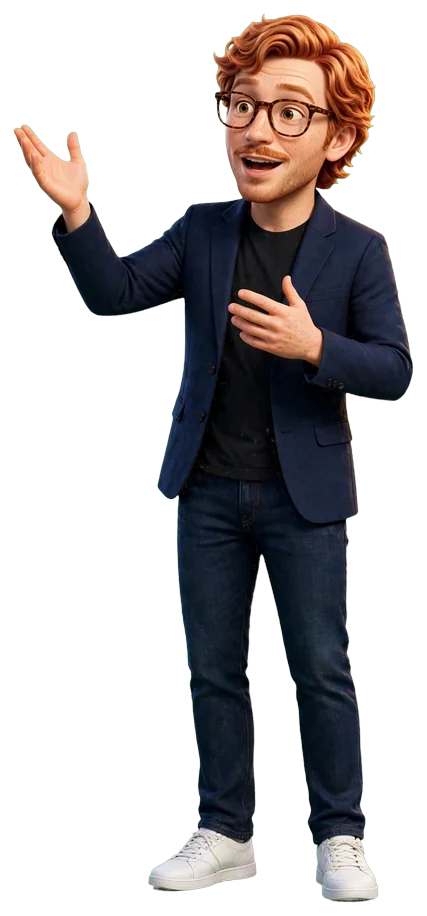
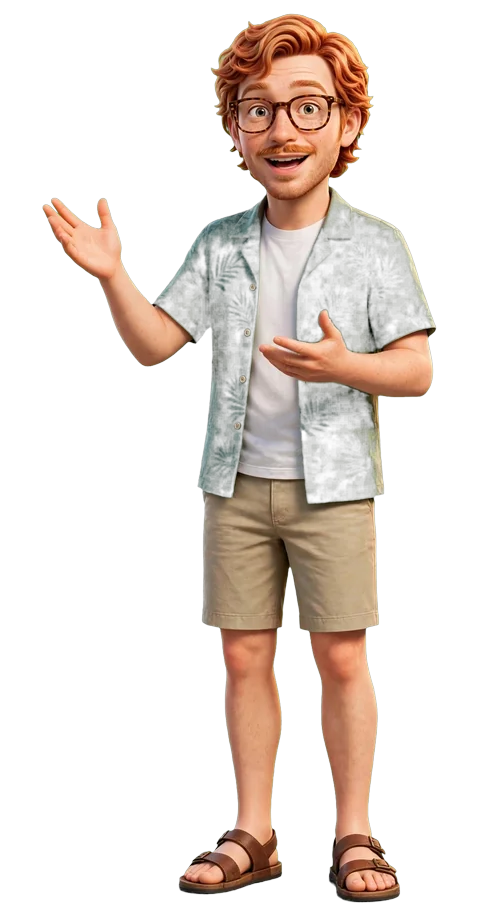
Leo is the button, dressed for San Diego, standing over the bay
- Leo re-dressed as a San Diegan across all poses: sage palm camp
  shirt open over a white tee, khaki shorts, leather sandals — same
  scholar face, glasses and stache. Seven poses now: idle, speaking,
  listening, thinking, wave, plus two new ones (pointing, thumbs-up),
  all cutouts on the shared 480x916 canvas (57-74 KB each)
- The mic orb is retired: Leo himself is the tap target, running the
  same press handler. A mic badge on his hip (amber idle / blue
  speaking / rose listening) teaches the tap; his state glow now sits
  behind him; hint reads 'Tap Leo to ask him a question'
- Pose breakouts: he points for 5s when a major landmark's story
  jumps the queue, and flashes a thumbs-up when a story is liked
- Setting: San Diego — a Coronado Bridge / downtown / palms
  silhouette (inline SVG, no image weight) grounds both screens,
  and the sky gradient follows the clock (dawn/day/dusk/night)

diff --git a/src/App.tsx b/src/App.tsx
@@ -18,7 +18,18 @@ import { ambientAudio } from './services/ambientAudio';
 import { storyLikes } from './services/storyLikes';
 import { geminiAudio } from './services/geminiAudio';
 import { SUPABASE_CONFIGURED } from './services/supabase';
-import LeoFigure from './components/LeoFigure';
+import LeoFigure, { LeoPose } from './components/LeoFigure';
+import SdSkyline from './components/SdSkyline';
+
+// The sky over San Diego, by the clock. Still just a gradient — no image,
+// no weight — but the app sits in the same light the driver is in.
+function daySkyGradient(): string {
+  const h = new Date().getHours();
+  if (h >= 5 && h < 8) return 'linear-gradient(to bottom, #0b1226 0%, #27355c 55%, #6b3a1e 135%)';
+  if (h >= 8 && h < 17) return 'linear-gradient(to bottom, #0a1f33 0%, #155e75 60%, #0f766e 140%)';
+  if (h >= 17 && h < 20) return 'linear-gradient(to bottom, #150f2e 0%, #46224d 55%, #8a3b16 135%)';
+  return 'linear-gradient(to bottom, #020617 0%, #1e293b 55%, #020617 100%)';
+}
 
 const RESUME_SESSION_KEY = 'leo_active_session';
 const RESUME_SESSION_TTL_MS = 30 * 60 * 1000;
@@ -98,6 +109,18 @@ function App() {
       : voice.wasInterrupted
         ? { label: 'TAP TO RESUME', pose: 'idle' as const, orb: 'from-cyan-900/60 to-slate-900 border-cyan-600/50', glow: 'bg-cyan-500/25', ring: 'border-cyan-400/30', icon: 'text-cyan-300', text: 'text-cyan-300' }
         : { label: 'ON TOUR', pose: 'idle' as const, orb: 'from-slate-800 to-slate-900 border-slate-600/50', glow: 'bg-cyan-500/10', ring: 'border-slate-500/25', icon: 'text-slate-400', text: 'text-slate-500' };
+
+  // Brief pose breakouts that outrank the state pose: Leo points when a
+  // major landmark's story jumps the queue, and throws a thumbs-up when a
+  // story is liked. Pure theatre — timed, then the state pose resumes.
+  const [poseFlash, setPoseFlash] = useState<LeoPose | null>(null);
+  const skyGradient = daySkyGradient();
+  const poseFlashTimerRef = useRef<number | null>(null);
+  const flashPose = useCallback((pose: LeoPose, ms: number) => {
+    setPoseFlash(pose);
+    if (poseFlashTimerRef.current) window.clearTimeout(poseFlashTimerRef.current);
+    poseFlashTimerRef.current = window.setTimeout(() => setPoseFlash(null), ms);
+  }, []);
 
   const requestTokenRef = useRef<number>(0);
   const kickoffFiredRef = useRef(false);
@@ -483,6 +506,7 @@ function App() {
             // Front of the waiting queue — behind nothing but any scripted
             // line already in flight, and always after the current story.
             voice.queuePriorityStory(result.story, position.lat, position.lng, isRoad, result.subject);
+            flashPose('pointing', 5000);
             queueJumpLandmarkRef.current = null;
             console.log(`[Tour] Major-landmark story queued at the front: "${result.subject}"`);
           } else {
@@ -818,8 +842,9 @@ function App() {
       )}
       {!isTourStarted ? (
         <div className="flex-1 flex items-center justify-center bg-slate-900 relative overflow-hidden">
-          <div className="absolute inset-0 bg-gradient-to-b from-slate-950 via-slate-800 to-slate-950" />
+          <div className="absolute inset-0" style={{ background: skyGradient }} />
           <div className="absolute inset-0 leo-grid" />
+          <SdSkyline className="absolute bottom-0 left-0 w-full h-24 sm:h-32 text-slate-950/60 pointer-events-none" />
           <div className="absolute top-[15%] left-[10%] w-[28rem] h-[28rem] bg-amber-600 rounded-full opacity-[0.06] blur-[120px] leo-float" />
           <div className="absolute bottom-[10%] right-[8%] w-[24rem] h-[24rem] bg-cyan-500 rounded-full opacity-[0.05] blur-[120px] leo-float-slow" />
           <div className="absolute top-[50%] left-[55%] w-[20rem] h-[20rem] bg-amber-400 rounded-full opacity-[0.03] blur-[100px] leo-float" />
@@ -932,8 +957,9 @@ function App() {
           </div>
 
           {/* MIDDLE ZONE — narrative card */}
-          <div className="flex-1 relative bg-gradient-to-b from-slate-800 via-slate-850 to-slate-900 flex items-center justify-center overflow-hidden px-3 sm:px-5">
+          <div className="flex-1 relative flex items-center justify-center overflow-hidden px-3 sm:px-5" style={{ background: skyGradient }}>
             <div className="absolute inset-0 leo-grid opacity-50" />
+            <SdSkyline className="absolute bottom-0 left-0 w-full h-20 sm:h-24 text-slate-950/50 pointer-events-none" />
             <div className="absolute top-10 left-10 w-64 h-64 bg-amber-700 rounded-full opacity-[0.07] blur-[100px] leo-float" />
             <div className="absolute bottom-16 right-16 w-72 h-72 bg-cyan-600 rounded-full opacity-[0.05] blur-[100px] leo-float-slow" />
             <div className="absolute top-[40%] right-[20%] w-48 h-48 bg-amber-500 rounded-full opacity-[0.04] blur-[80px] leo-float" />
@@ -1088,26 +1114,25 @@ function App() {
                   header ribbon and the like/share row can never slide
                   under the bottom dock, on phone or desktop alike. */}
               <div className="flex flex-row items-center justify-center gap-2 sm:gap-6 w-full">
-                <LeoFigure pose={leoStatus.pose} className="h-[44vh] sm:h-[56vh] min-h-[240px] max-h-[540px] shrink-0" />
+                {/* Leo IS the button now. Tapping the orb was an abstraction;
+                    tapping Leo is a shoulder-tap — he stops, leans in, and
+                    listens. The mic badge on his hip teaches the tap once;
+                    his pose and the label carry the state from there. */}
+                <button
+                  type="button"
+                  onClick={handleOrbPress}
+                  aria-label="Tap Leo to ask him a question by voice"
+                  className="relative shrink-0 rounded-[2rem] transition-transform duration-200 active:scale-[0.98] focus:outline-none"
+                >
+                  <div className={`absolute inset-x-6 top-6 bottom-10 rounded-full blur-3xl transition-colors duration-700 ${leoStatus.glow}`} />
+                  <LeoFigure pose={poseFlash ?? leoStatus.pose} className="relative h-[44vh] sm:h-[56vh] min-h-[240px] max-h-[540px]" />
+                  <span className={`absolute bottom-[7%] right-[1%] flex items-center justify-center w-11 h-11 rounded-full border border-white/25 shadow-xl text-white transition-colors duration-500 ${
+                    leoStatus.pose === 'listening' ? 'bg-rose-500' : leoStatus.pose === 'speaking' ? 'bg-blue-500' : 'bg-amber-500'
+                  }`}>
+                    <Mic size={20} />
+                  </span>
+                </button>
                 <div className="flex flex-col items-center min-w-0">
-                <div className="relative flex items-center justify-center mb-4" style={{ width: 128, height: 128 }}>
-                  <div className={`absolute rounded-full border leo-ring ${leoStatus.ring}`} style={{ width: 128, height: 128 }} />
-                  <div className={`absolute rounded-full border leo-ring-delay ${leoStatus.ring}`} style={{ width: 128, height: 128 }} />
-                  <div className={`absolute w-24 h-24 rounded-full blur-2xl transition-colors duration-700 ${leoStatus.glow}`} />
-                  <button
-                    type="button"
-                    onClick={handleOrbPress}
-                    aria-label="Ask Leo a question by voice"
-                    className={`relative w-24 h-24 rounded-full bg-gradient-to-br border flex items-center justify-center shadow-2xl transition-all duration-500 active:scale-95 ${leoStatus.orb}`}
-                  >
-                    {speech.isListening
-                      ? <Mic size={32} className={leoStatus.icon} strokeWidth={1.5} />
-                      : isProcessingQuestion
-                        ? <Send size={30} className={leoStatus.icon} strokeWidth={1.5} />
-                        : <Mic size={34} className={leoStatus.icon} strokeWidth={1.5} />}
-                  </button>
-                </div>
-
                 {voice.isSpeaking && (
                   <div className="flex items-center gap-[3px] h-5 mb-4">
                     {[0, 1, 2, 3, 4].map(i => (
@@ -1126,7 +1151,7 @@ function App() {
 
                 {speech.isSupported && !speech.isListening && (
                   <p className="mt-2.5 text-sm tracking-wide text-slate-400">
-                    Tap the microphone to ask Leo a question
+                    Tap Leo to ask him a question
                   </p>
                 )}
 
@@ -1136,6 +1161,7 @@ function App() {
                       if (hasLikedStory || likeAnimating) return;
                       setHasLikedStory(true);
                       setLikeAnimating(true);
+                      flashPose('liked', 2000);
                       setTimeout(() => setLikeAnimating(false), 600);
                       const topic = voice.getCurrentStoryTopic();
                       const pos = geolocation.position;

diff --git a/src/components/SdSkyline.tsx b/src/components/SdSkyline.tsx
@@ -1,0 +1,55 @@
+// San Diego on the horizon — a single dark silhouette strip: the Coronado
+// Bridge sweeping in from the left, downtown towers on the right, palms at
+// both ends. Pure SVG, no image weight, coloured with currentColor so each
+// screen can tint it. Deliberately quiet: it is the ground Leo stands on,
+// not a picture competing with him.
+export default function SdSkyline({ className = '' }: { className?: string }) {
+  return (
+    <svg
+      viewBox="0 0 1440 150"
+      preserveAspectRatio="xMidYMax slice"
+      className={className}
+      aria-hidden="true"
+      focusable="false"
+    >
+      <g fill="currentColor">
+        {/* ground line */}
+        <rect x="0" y="138" width="1440" height="12" />
+        {/* Coronado Bridge — long low arc, two pylons */}
+        <path d="M-10 128 Q 300 62 620 92 T 1010 118 L 1010 126 Q 640 100 330 84 Q 140 108 -10 136 Z" />
+        <rect x="330" y="92" width="7" height="46" />
+        <rect x="648" y="88" width="7" height="50" />
+        {/* downtown towers */}
+        <g>
+          <rect x="1064" y="78" width="26" height="60" />
+          <rect x="1096" y="58" width="20" height="80" />
+          <rect x="1122" y="88" width="30" height="50" />
+          <rect x="1158" y="44" width="24" height="94" />
+          <rect x="1158" y="36" width="24" height="8" />
+          <rect x="1188" y="70" width="18" height="68" />
+          <rect x="1212" y="92" width="34" height="46" />
+          <rect x="1252" y="62" width="22" height="76" />
+          <rect x="1280" y="84" width="28" height="54" />
+          <rect x="1314" y="100" width="36" height="38" />
+        </g>
+        {/* One America Plaza-style pointed top */}
+        <path d="M1158 44 L1170 22 L1182 44 Z" />
+      </g>
+      <g stroke="currentColor" strokeWidth="5" strokeLinecap="round" fill="none">
+        {/* palm left */}
+        <path d="M96 138 Q 92 104 104 78" />
+        <path d="M104 78 Q 84 62 66 68" />
+        <path d="M104 78 Q 100 56 84 48" />
+        <path d="M104 78 Q 118 56 136 54" />
+        <path d="M104 78 Q 126 66 142 74" />
+        <path d="M104 78 Q 110 58 122 46" />
+        {/* palm right */}
+        <path d="M1396 138 Q 1392 108 1402 84" />
+        <path d="M1402 84 Q 1384 68 1366 74" />
+        <path d="M1402 84 Q 1398 62 1382 54" />
+        <path d="M1402 84 Q 1416 62 1434 60" />
+        <path d="M1402 84 Q 1422 72 1438 80" />
+      </g>
+    </svg>
+  );
+}

diff --git a/src/components/LeoFigure.tsx b/src/components/LeoFigure.tsx
@@ -5,9 +5,9 @@
 // five poses share one canvas and one foot line, so a swap never makes
 // him jump or resize. Total weight of all five: under 200 KB, cached
 // after first load.
-export type LeoPose = 'idle' | 'speaking' | 'listening' | 'thinking' | 'wave';
+export type LeoPose = 'idle' | 'speaking' | 'listening' | 'thinking' | 'wave' | 'pointing' | 'liked';
 
-const POSES: LeoPose[] = ['idle', 'speaking', 'listening', 'thinking', 'wave'];
+const POSES: LeoPose[] = ['idle', 'speaking', 'listening', 'thinking', 'wave', 'pointing', 'liked'];
 
 export default function LeoFigure({
   pose,
@@ -19,7 +19,7 @@ export default function LeoFigure({
   return (
     <div
       className={`relative ${className}`}
-      style={{ aspectRatio: '427 / 916' }}
+      style={{ aspectRatio: '480 / 916' }}
       aria-hidden="true"
     >
       {/* soft ground shadow so he stands IN the scene, not on it */}
